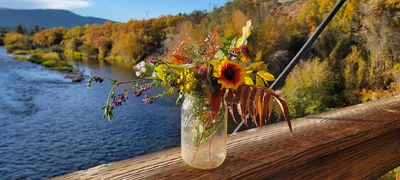
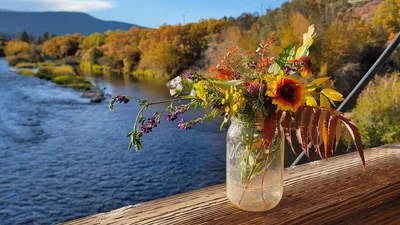
Stop the photo wall reshuffling, and hold the viewer's layout
The wall rendered nine photos at a time and appended more on scroll,
but multi-column layout rebalances its columns whenever content changes,
so each batch moved photos that were already on screen. Measured on a
phone: nine of eighteen jumped column and position mid-scroll, which is
the glitchiness. Every photo is rendered up front now, so the columns are
laid out once and never move. Nothing is fetched early, because each
image is lazy: zero photo requests on the landing view, and the last of
the thirty-four only when you scroll to it. The prerendered HTML grows to
57kB, but that is 11kB over the wire once gzipped.

In the viewer, the image's box was 0x0 until its data arrived, so the
caption and the phone arrow row were shoved down by 134px mid-load. The
width and height attributes are not enough on their own, and neither is
an explicit aspect-ratio, because a replaced element with auto width has
nothing to resolve the ratio against until it has intrinsic dimensions.
The box now computes its own fitted size in CSS, with `min()` over the
width and height limits against container units, so it is exactly the
photo's footprint from the first frame. Verified stable through a
throttled load, and correct for portrait and landscape.

The parked designs no longer ship. The gallery moved to its own module
behind a dynamic import, so the production build drops it along with all
five parked designs: 268kB to 248kB. A static import kept them, since the
[…]

diff --git a/src/components/Lightbox.tsx b/src/components/Lightbox.tsx
@@ -21,40 +21,52 @@ interface LightboxProps {
  */
 const Frame = ({ photo, label }: { photo: Photo; label: string }) => {
   const [loaded, setLoaded] = useState(false)
+  const ratio = `${photo.width} / ${photo.height}`
 
   return (
-    // Sizes itself to the image, so the placeholder can sit exactly over it
-    // without needing to know the fitted dimensions.
-    <div className="relative inline-flex overflow-hidden rounded-xl shadow-2xl">
-      <img
-        // A cached image can finish before React attaches onLoad, which would
-        // leave it faded out for good, so the ref checks for that case too.
-        ref={(node) => {
-          if (node?.complete) setLoaded(true)
-        }}
-        onLoad={() => setLoaded(true)}
-        src={photoSrc(photo, 1800)}
-        srcSet={photoSrcSet(photo)}
-        sizes="(min-width: 1024px) 80vw, 100vw"
-        alt={photo.caption || label}
-        width={photo.width}
-        height={photo.height}
-        className="max-h-[68vh] w-auto max-w-full object-contain transition-opacity duration-400 ease-(--ease-out-soft) sm:max-h-[72vh]"
-        style={{ opacity: loaded ? 1 : 0 }}
-      />
-
+    <>
       {/*
-       * Blur-up, and nothing else. The placeholder cross-fades straight into
-       * the photo in one move: a spinner on top of it read as three separate
-       * loading stages rather than one, and the photo's own colours already
-       * say that something is arriving.
+       * The fitted size is computed in CSS rather than waiting on the image.
+       * Left to the width and height attributes the box measured 0x0 until the
+       * data arrived, which shoved the caption and the phone arrow row down by
+       * over 100px mid-load. `min()` picks whichever of the width and height
+       * limits binds first, so the box is exactly the photo's footprint from
+       * the first frame, and the placeholder and rounding line up with it.
        */}
       <div
-        aria-hidden="true"
-        className="pointer-events-none absolute inset-0 bg-cover bg-center blur-md transition-opacity duration-400 ease-(--ease-out-soft)"
-        style={{ backgroundImage: `url(${photo.lqip})`, opacity: loaded ? 0 : 1 }}
-      />
-    </div>
+        className="relative overflow-hidden rounded-xl shadow-2xl"
+        style={{ aspectRatio: ratio, width: `min(100cqw, calc(72svh * ${photo.width} / ${photo.height}))` }}
+      >
+        <img
+          // A cached image can finish before React attaches onLoad, which would
+          // leave it faded out for good, so the ref checks for that case too.
+          ref={(node) => {
+            if (node?.complete) setLoaded(true)
+          }}
+          onLoad={() => setLoaded(true)}
+          src={photoSrc(photo, 1800)}
+          srcSet={photoSrcSet(photo)}
+          sizes="(min-width: 1024px) 80vw, 100vw"
+          alt={photo.caption || label}
+          width={photo.width}
+          height={photo.height}
+          className="absolute inset-0 h-full w-full object-cover transition-opacity duration-400 ease-(--ease-out-soft)"
+          style={{ opacity: loaded ? 1 : 0 }}
+        />
+
+        {/*
+         * Blur-up, and nothing else. The placeholder cross-fades straight into
+         * the photo in one move: a spinner on top of it read as three separate
+         * loading stages rather than one, and the photo's own colours already
+         * say that something is arriving.
+         */}
+        <div
+          aria-hidden="true"
+          className="pointer-events-none absolute inset-0 bg-cover bg-center blur-md transition-opacity duration-400 ease-(--ease-out-soft)"
+          style={{ backgroundImage: `url(${photo.lqip})`, opacity: loaded ? 0 : 1 }}
+        />
+      </div>
+    </>
   )
 }
 
@@ -170,7 +182,7 @@ export const Lightbox = ({ photos, index, onClose, onNavigate }: LightboxProps) 
        * controls in the corners stay clear of it.
        */}
       <figure
-        className="relative z-0 flex max-h-full max-w-[min(1400px,96vw)] flex-col items-center gap-4 px-2 py-16 sm:px-14 sm:py-20 lg:px-20"
+        className="@container relative z-0 flex max-h-full w-full max-w-[min(1400px,96vw)] flex-col items-center gap-4 px-2 py-16 sm:px-14 sm:py-20 lg:px-20"
         onClick={(e) => e.stopPropagation()}
         onPointerDown={onPointerDown}
         onPointerUp={onPointerUp}

diff --git a/src/components/PhotoWall.tsx b/src/components/PhotoWall.tsx
@@ -1,44 +1,25 @@
-import { useCallback, useEffect, useRef, useState } from 'react'
+import { useCallback, useState } from 'react'
 
 import { photos } from '../data/photos.generated'
 import { palette } from '../theme'
 import { Lightbox } from './Lightbox'
 import { photoSrc, photoSrcSet } from './photoSrc'
 
-/** Rendered up front; the rest arrive as you reach the bottom. */
-const INITIAL = 9
-const BATCH = 9
-
 /**
- * A masonry wall of photos that grows as you scroll.
+ * A masonry wall of every photo.
  *
  * CSS columns rather than a grid, so portrait, landscape and panoramic frames
- * tile without per-item row spans. Each frame reserves its aspect ratio and
- * shows a blurred placeholder while loading, so nothing shifts as photos
- * arrive. The initial count is fixed rather than measured, which keeps the
- * prerendered markup identical to the first client render.
+ * tile without per-item row spans. Each frame reserves its aspect ratio behind
+ * a blurred placeholder, so nothing shifts as photos arrive.
+ *
+ * Every photo is rendered up front rather than appended in batches as you
+ * scroll. Multi-column layout rebalances its columns whenever content changes,
+ * so appending moved photos that were already on screen into other columns:
+ * measured at nine of eighteen jumping column and position mid-scroll. Nothing
+ * is fetched early regardless, because each image is lazy.
  */
 export const PhotoWall = () => {
-  const [visible, setVisible] = useState(INITIAL)
   const [openIndex, setOpenIndex] = useState<number | null>(null)
-  const sentinel = useRef<HTMLDivElement>(null)
-
-  const hasMore = visible < photos.length
-
-  useEffect(() => {
-    const node = sentinel.current
-    if (!node || !hasMore) return
-    const observer = new IntersectionObserver(
-      (entries) => {
-        if (entries.some((e) => e.isIntersecting)) {
-          setVisible((v) => Math.min(v + BATCH, photos.length))
-        }
-      },
-      { rootMargin: '600px 0px' }, // start fetching before they come into view
-    )
-    observer.observe(node)
-    return () => observer.disconnect()
-  }, [hasMore])
 
   const close = useCallback(() => setOpenIndex(null), [])
   const navigate = useCallback((i: number) => setOpenIndex(i), [])
@@ -46,7 +27,7 @@ export const PhotoWall = () => {
   return (
     <>
       <div className="columns-2 gap-2.5 sm:columns-3 sm:gap-3">
-        {photos.slice(0, visible).map((photo, i) => {
+        {photos.map((photo, i) => {
           const label = photo.location || photo.date
           return (
             <figure key={photo.slug} className="mb-2.5 break-inside-avoid sm:mb-3">
@@ -99,14 +80,6 @@ export const PhotoWall = () => {
           )
         })}
       </div>
-
-      {hasMore && (
-        <div ref={sentinel} className="py-8 text-center">
-          <span className="font-mono text-[11px] tracking-widest uppercase" style={{ color: `${palette.sand}59` }}>
-            Loading more
-          </span>
-        </div>
-      )}
 
       {openIndex !== null && <Lightbox photos={photos} index={openIndex} onClose={close} onNavigate={navigate} />}
     </>

diff --git a/src/App.tsx b/src/App.tsx
@@ -1,48 +1,21 @@
-import { useEffect, useState } from 'react'
+import { Suspense, lazy } from 'react'
 
-import { DesignPicker } from './components/DesignPicker'
-import { profile } from './data/about'
-import { designs } from './designs'
+import { Rail } from './designs/Rail'
 
-/** The design that ships. The switcher below is a local review tool only. */
-const PRODUCTION_DESIGN = 'rail'
-
-const readDesignId = () => window.location.hash.replace(/^#\/?/, '')
-
-/**
- * Hash-routed gallery for comparing designs. Development only, so the review
- * chrome never reaches production and prerendered markup stays deterministic.
+/*
+ * The design that ships, imported directly.
+ *
+ * The review gallery is reached through a dynamic import that only exists in
+ * the development branch, so `vite build` drops it along with every parked
+ * design. Importing the registry here instead would ship all of them.
  */
-const DesignGallery = () => {
-  const [id, setId] = useState(readDesignId)
+const DesignGallery = import.meta.env.DEV ? lazy(() => import('./DesignGallery')) : null
 
-  useEffect(() => {
-    const onHashChange = () => {
-      setId(readDesignId())
-      window.scrollTo({ top: 0, behavior: 'instant' })
-    }
-    window.addEventListener('hashchange', onHashChange)
-    return () => window.removeEventListener('hashchange', onHashChange)
-  }, [])
-
-  const current = designs.find((d) => d.id === id) ?? designs[0]
-  if (!current) throw new Error('No designs are registered.')
-
-  useEffect(() => {
-    document.title = `${profile.name}, ${profile.role} · ${current.name}`
-  }, [current.name])
-
-  const Design = current.Component
-  return (
-    <>
-      <Design key={current.id} />
-      <DesignPicker designs={designs} current={current} />
-    </>
+export const App = () =>
+  DesignGallery ? (
+    <Suspense fallback={null}>
+      <DesignGallery />
+    </Suspense>
+  ) : (
+    <Rail />
   )
-}
-
-const chosen = designs.find((d) => d.id === PRODUCTION_DESIGN)
-if (!chosen) throw new Error(`Unknown production design: ${PRODUCTION_DESIGN}`)
-const ProductionDesign = chosen.Component
-
-export const App = () => (import.meta.env.DEV ? <DesignGallery /> : <ProductionDesign />)

diff --git a/src/DesignGallery.tsx b/src/DesignGallery.tsx
@@ -1,0 +1,46 @@
+import { useEffect, useState } from 'react'
+
+import { DesignPicker } from './components/DesignPicker'
+import { profile } from './data/about'
+import { designs } from './designs'
+
+const readDesignId = () => window.location.hash.replace(/^#\/?/, '')
+
+/**
+ * Hash-routed gallery for comparing designs, and the only thing that imports
+ * the parked ones.
+ *
+ * It lives in its own module so the production build can drop it: App reaches
+ * it through a dynamic import behind `import.meta.env.DEV`, which Rollup
+ * resolves at build time. A static import would keep every parked design in
+ * the shipped bundle, because the registry array would still be reachable.
+ */
+export const DesignGallery = () => {
+  const [id, setId] = useState(readDesignId)
+
+  useEffect(() => {
+    const onHashChange = () => {
+      setId(readDesignId())
+      window.scrollTo({ top: 0, behavior: 'instant' })
+    }
+    window.addEventListener('hashchange', onHashChange)
+    return () => window.removeEventListener('hashchange', onHashChange)
+  }, [])
+
+  const current = designs.find((d) => d.id === id) ?? designs[0]
+  if (!current) throw new Error('No designs are registered.')
+
+  useEffect(() => {
+    document.title = `${profile.name}, ${profile.role} · ${current.name}`
+  }, [current.name])
+
+  const Design = current.Component
+  return (
+    <>
+      <Design key={current.id} />
+      <DesignPicker designs={designs} current={current} />
+    </>
+  )
+}
+
+export default DesignGallery

diff --git a/src/data/outside.ts b/src/data/outside.ts
@@ -1,5 +1,6 @@
 // Photos come from photos/manifest.json via PhotoWall.
 export const outsideIntro = [
-  'I charge up my mental batteries by depleting my glycogen stores. Type 2 fun, they call it. Sometimes I bring my camera along.',
+  'I charge up my mental batteries by depleting my glycogen stores.',
+  '"Type 2 fun," they call it. Sometimes I bring my camera along.',
   'Word to the wise: be careful bringing up bike tires around me. I have opinions.',
 ]
